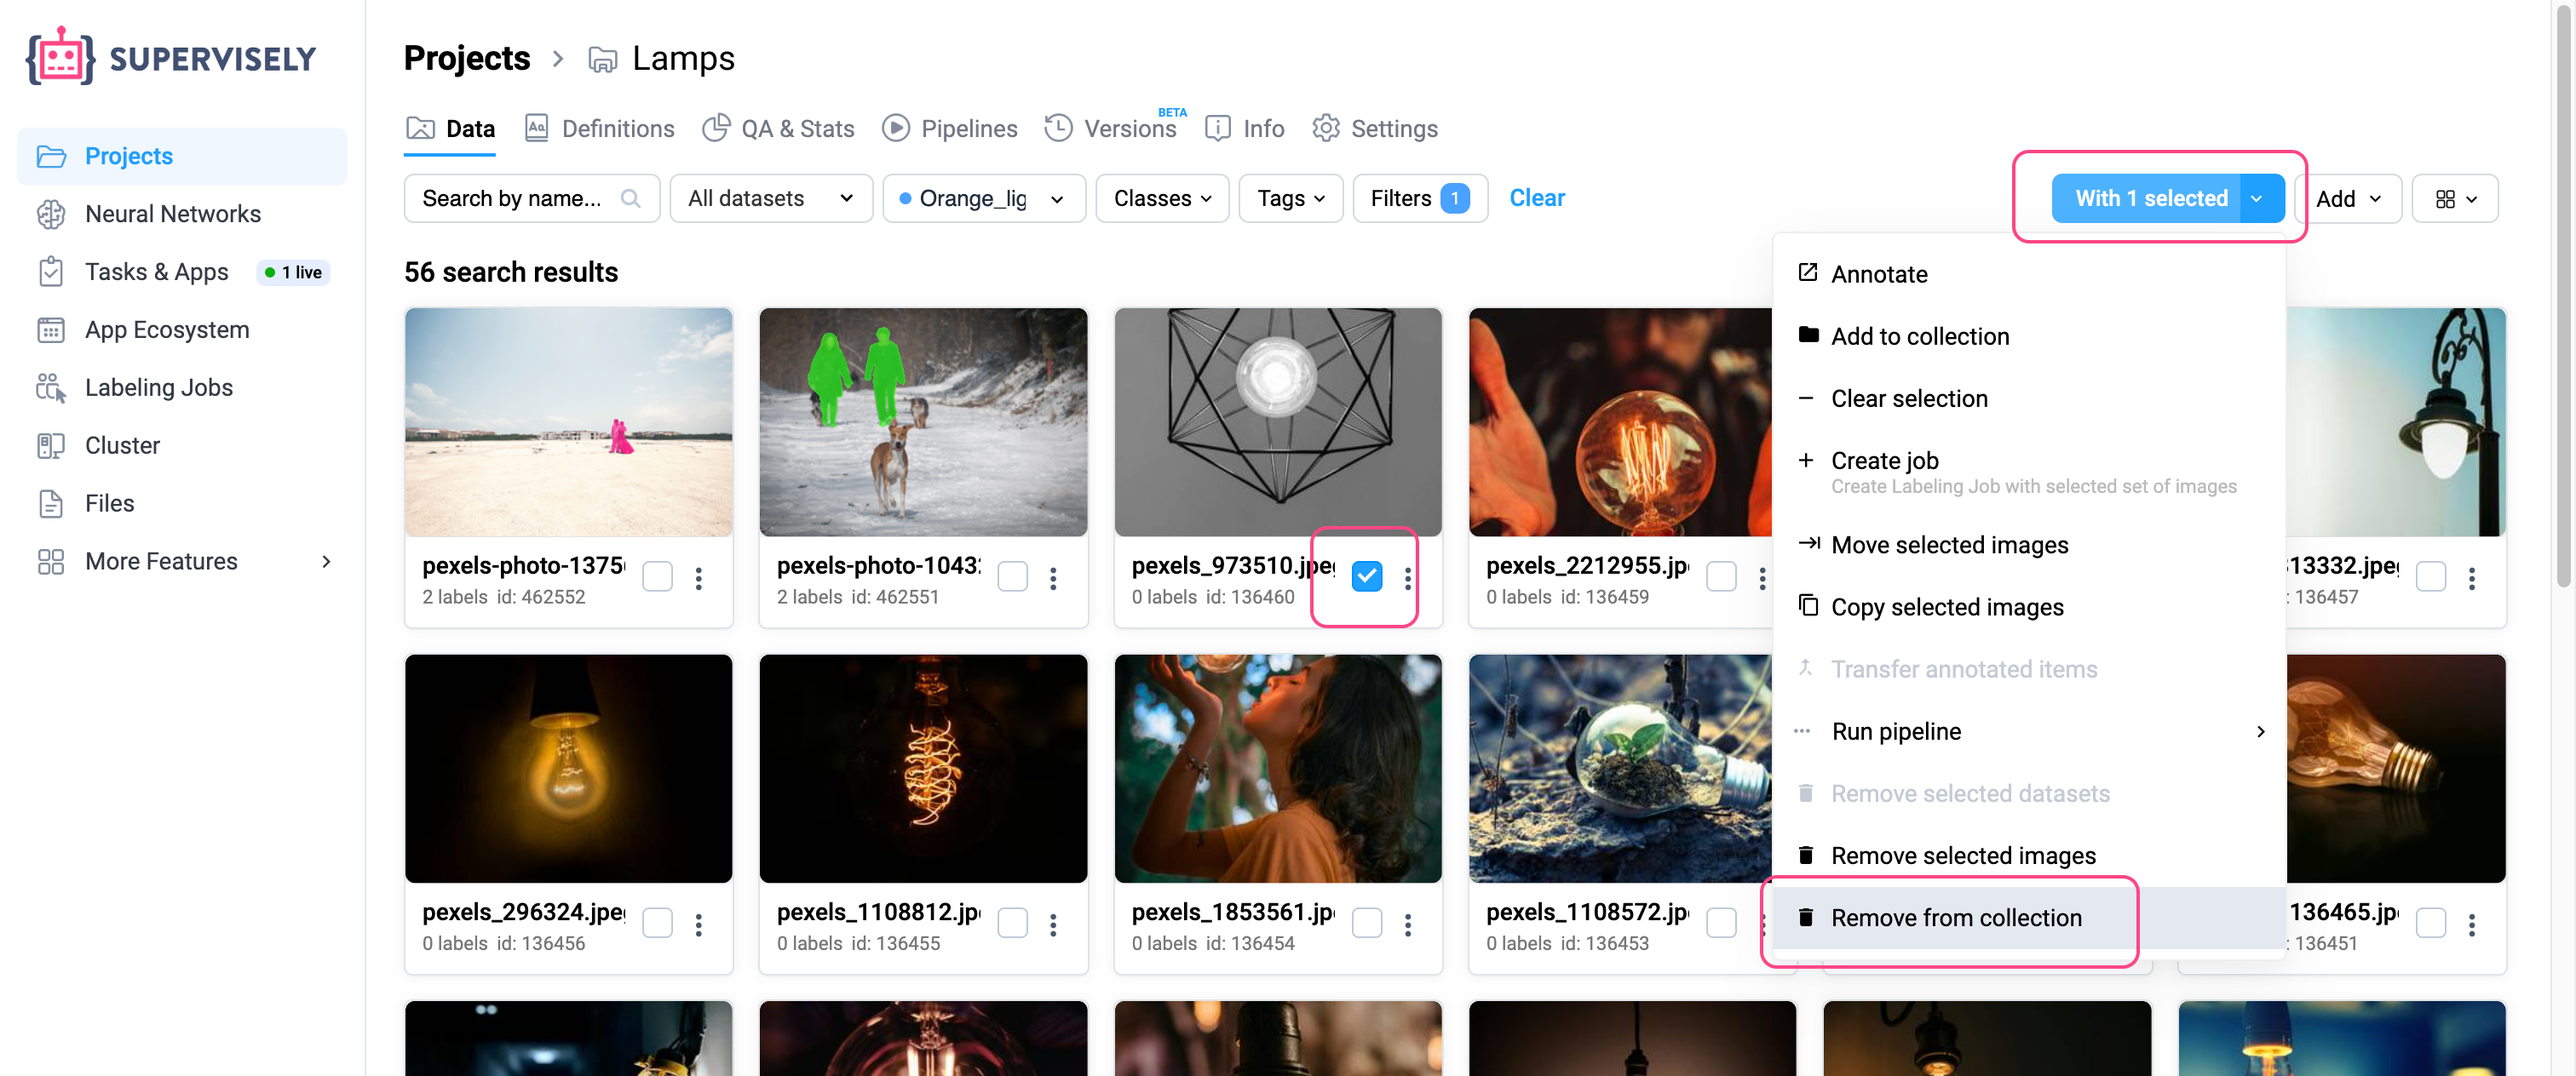
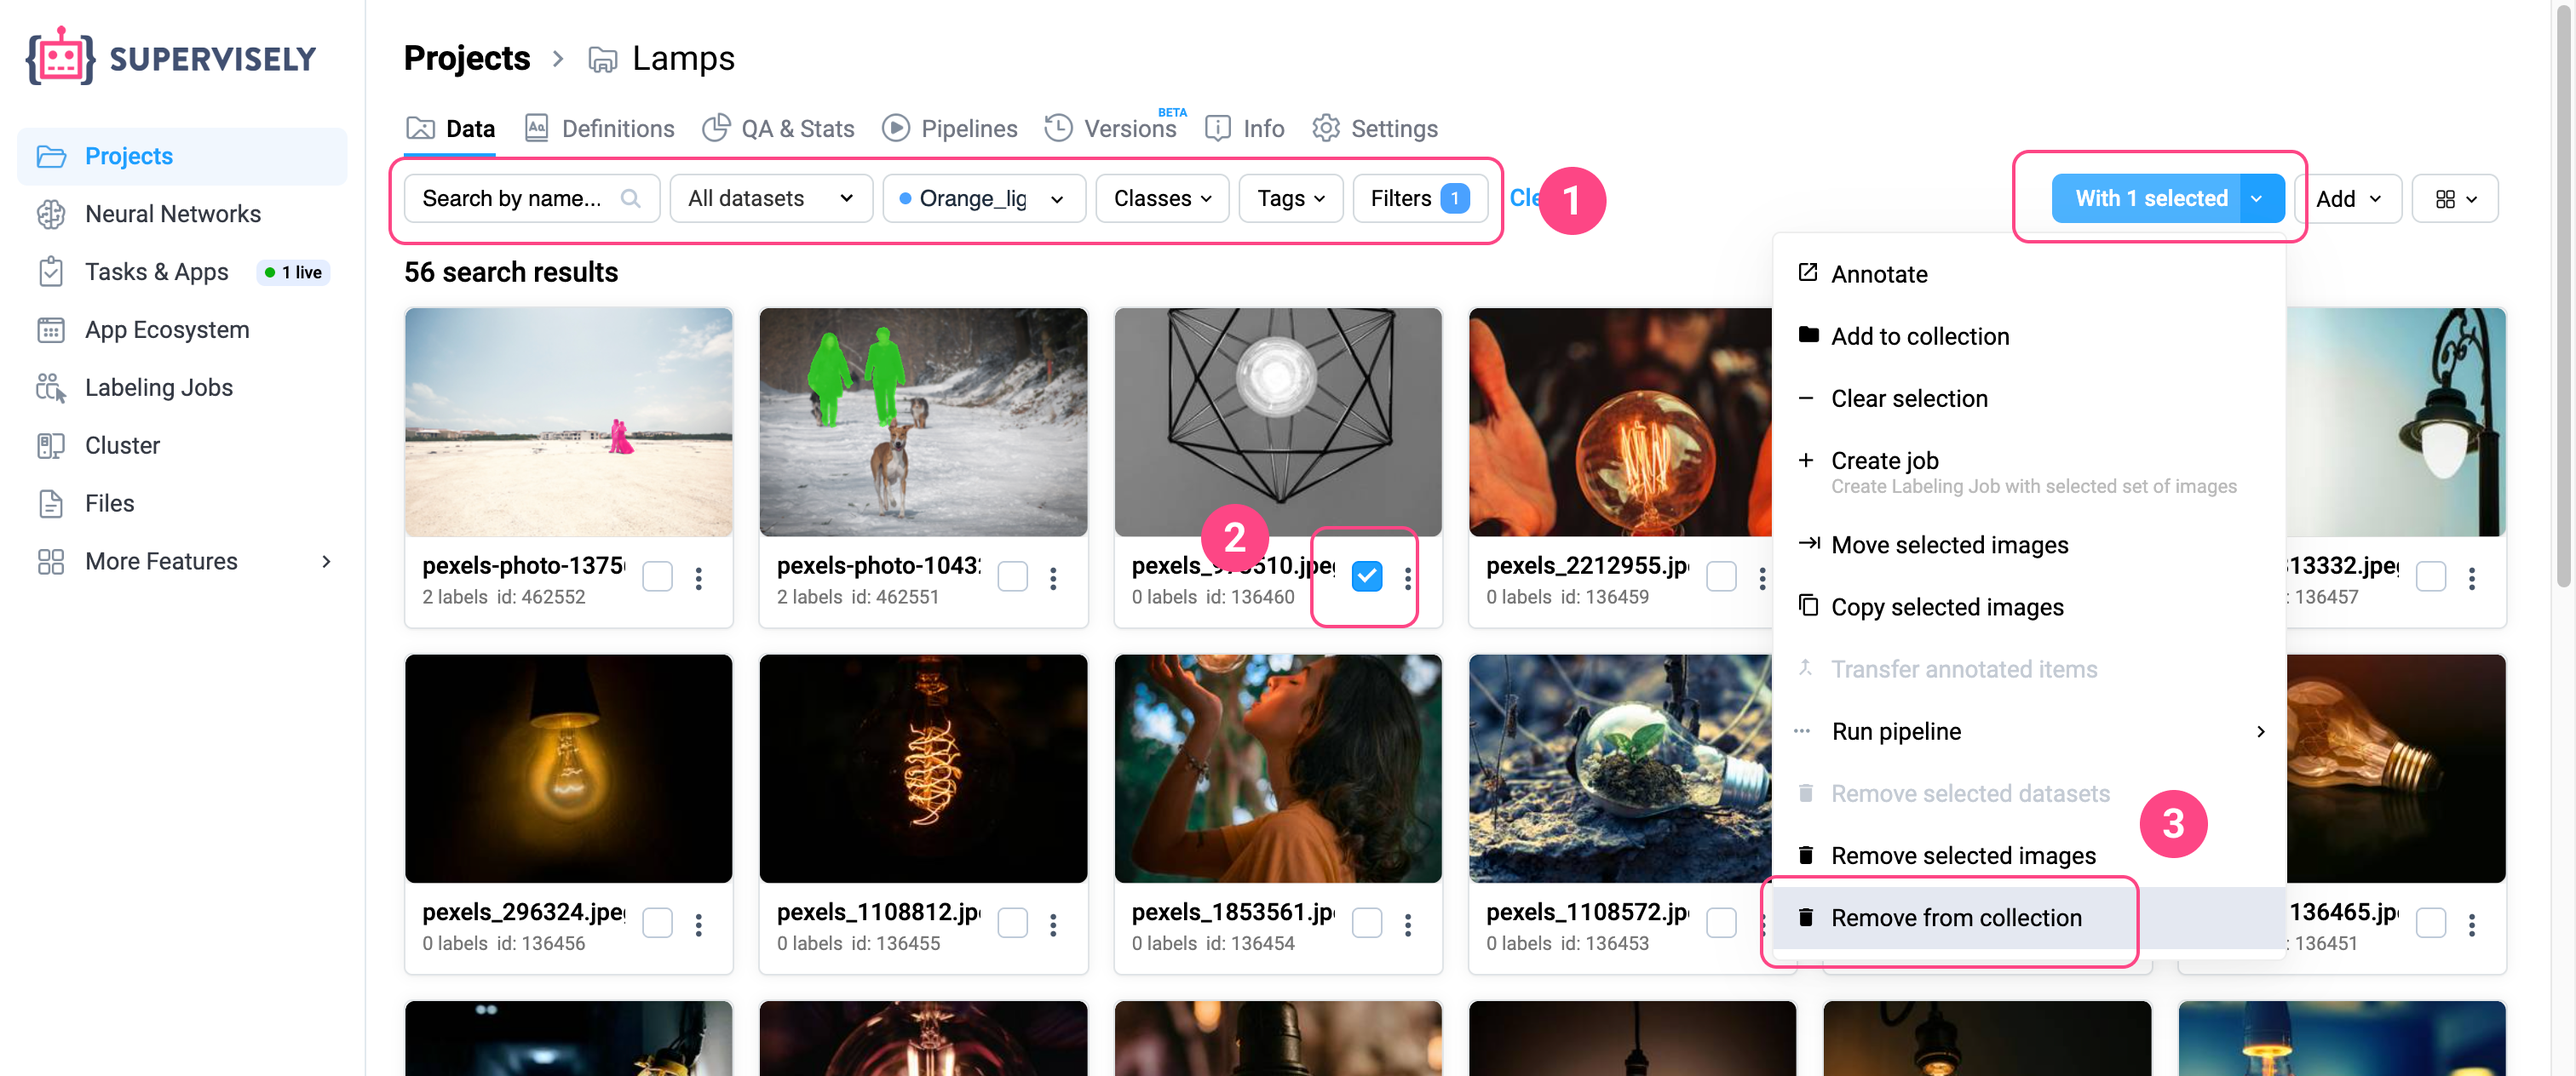
refine wording for clarity in collections documentation

diff --git a/data-organization/projects/collections.md b/data-organization/projects/collections.md
@@ -27,7 +27,7 @@ For creating collection open any dataset and switch to a flat list view (like _*
     <figure><img src="../../.gitbook/assets/collections/collections_create_all_items1.png" alt=""><figcaption></figcaption></figure>
 
     <br></br>
-    If you want to create collection from several items, select the desired items **using filters**(1.1) or/and manual(1.2) selection and click the _**With (number) selected**_ button and select option _**Add to collection**_(1.3).
+    If you want to create collection from several items, select the desired items **using filters** (1.1) or/and manual (1.2) selection and click the _**With (number) selected**_ button and select option _**Add to collection**_ (1.3).
 
     <figure><img src="../../.gitbook/assets/collections/collections_create_selected_items.png" alt=""><figcaption></figcaption></figure>
 
@@ -50,7 +50,7 @@ For creating collection open any dataset and switch to a flat list view (like _*
 
 You can add items to an existing collection from any dataset inside one project. For example, let's go to a different dataset and:
 
-1. Select the desired items **using filters**(1.1) or manual(1.2) selection. Click the _**With (number) selected**_ button and select option _**Add to collection**_(1.3).
+1. Select the desired items **using filters** (1.1) or/and manual (1.2) selection. Click the _**With (number) selected**_ button and select option _**Add to collection**_ (1.3).
 
 <figure><img src="../../.gitbook/assets/collections/collections_add_selected_items.png" alt=""><figcaption></figcaption></figure>
 
@@ -64,7 +64,7 @@ You can add items to an existing collection from any dataset inside one project.
 
 ## 3. Deleting items from collection
 
-For deleting items from collection just select the desired items using filters or manual selection. Click the _**With (number) selected**_ button and select option _**Remove from collection**_.
+For deleting items from collection just select the desired items using **filters** (1) or manual selection (2). Click the _**With (number) selected**_ button and select option _**Remove from collection**_ (3).
 
 <figure><img src="../../.gitbook/assets/collections/collections_delete_selected_items.png" alt=""><figcaption></figcaption></figure>
 
